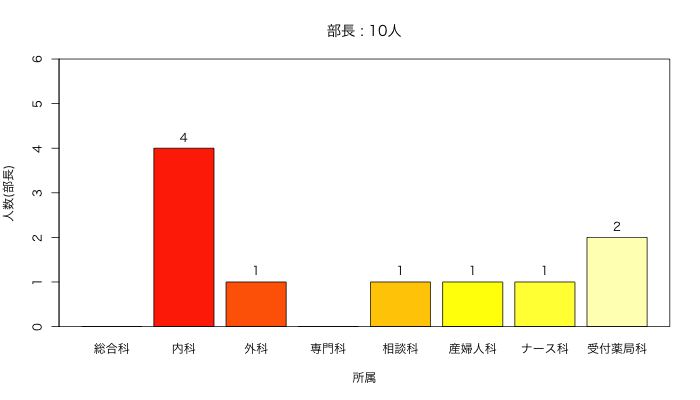
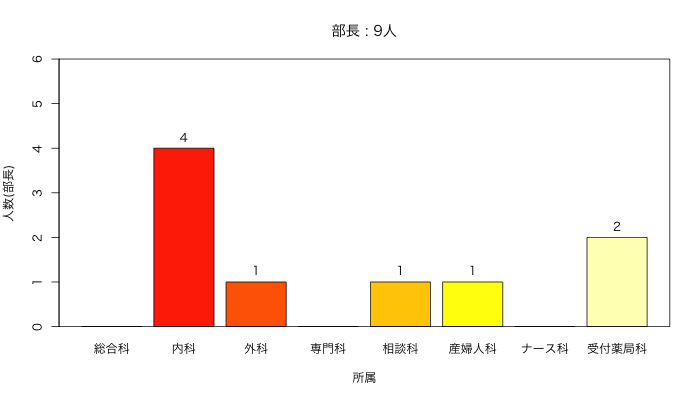
昇格者更新

Changed region(s): [[0.72, 0.69, 0.84, 0.84], [0.45, 0.06, 0.57, 0.09]]

diff --git a/ReadMe.md b/ReadMe.md
@@ -26,6 +26,7 @@
 |医院長|相談科|あめ||
 |副医院長|受付薬局科|Sherry||
 |副医院長|受付薬局科|にこ||
+|副医院長補佐|ナース科|さきりん||
 |部長|内科|Fx||
 |部長|内科|くぅ||
 |部長|内科|まあ||
@@ -33,7 +34,6 @@
 |部長|外科|ノッチィ||
 |部長|相談科|れい||
 |部長|産婦人科|宇佐||
-|部長|ナース科|さきりん||
 |部長|受付薬局科|かのん||
 |部長|受付薬局科|渚||
 |主任|内科|SEANO|<img src="https://github.com/fairy00000/organization/blob/master/image/new.gif">|
@@ -51,10 +51,10 @@
 |オーナー|1|0|0|0|0|0|0|0|1|
 |医院長|0|0|1|2|1|0|0|0|4|
 |副医院長|0|0|0|0|0|0|0|2|2|
-|副医院長補佐|0|0|0|0|0|0|0|0|0|
+|副医院長補佐|0|0|0|0|0|0|1|0|1|
 |医局長|0|0|0|0|0|0|0|0|0|
 |事務局長|0|0|0|0|0|0|0|0|0|
-|部長|0|4|1|0|1|1|1|2|10|
+|部長|0|4|1|0|1|1|0|2|9|
 |主任|0|3|0|0|3|0|0|1|7|
 |合計|1|7|2|2|5|1|1|5|24|
 
